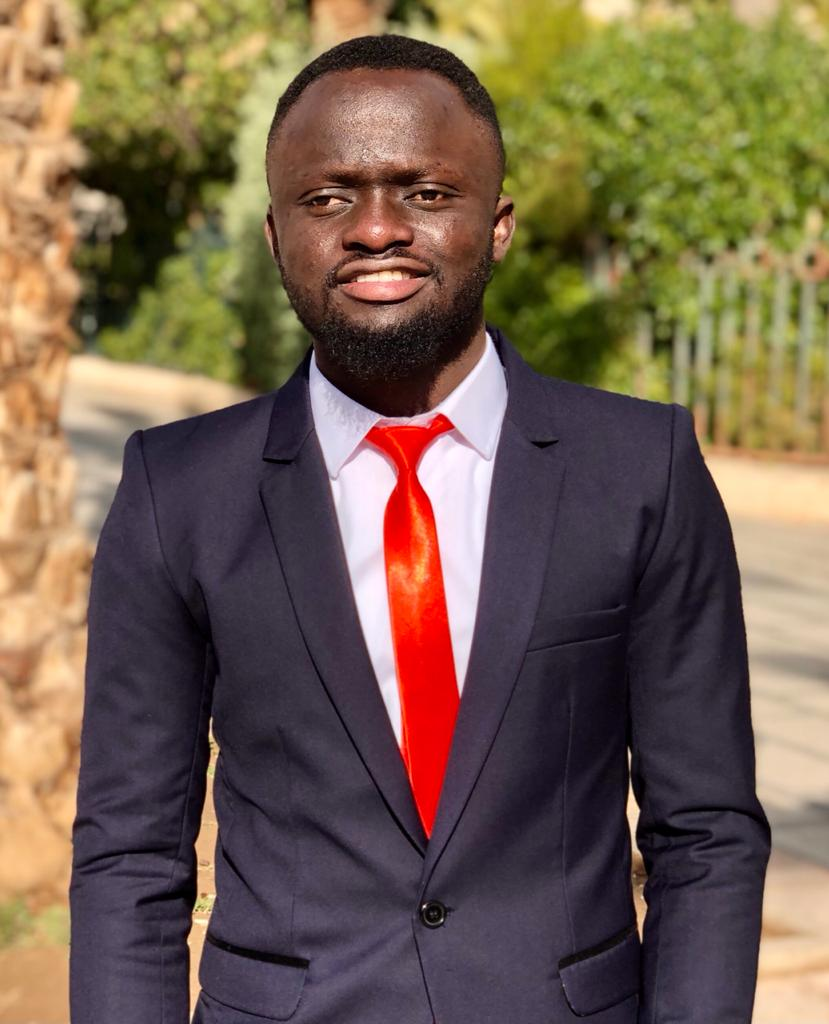
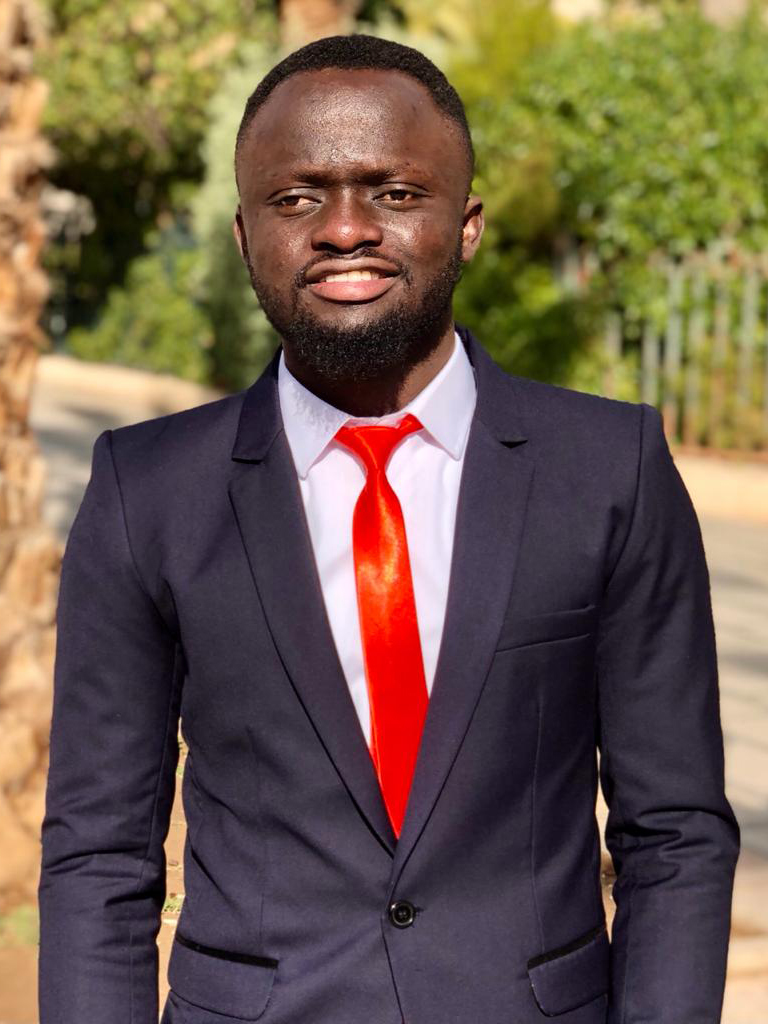
changes

diff --git a/assets/css/style.css b/assets/css/style.css
@@ -1836,7 +1836,7 @@ textarea {
   height: 100% !important;
 }
 
-@media screen and (max-width: 768px) {
+@media screen and (max-width: 991px) {
   .ghasam-admins .tab-content .grid {
     -ms-grid-columns: 1fr;
         grid-template-columns: 1fr;
@@ -1860,7 +1860,13 @@ textarea {
   padding: 2rem 1rem;
   -ms-flex-line-pack: center;
       align-content: center;
-  height: 55%;
+  height: 53%;
+}
+
+@media screen and (max-width: 991px) {
+  .ghasam-admins .tab-content .profile__info {
+    height: 40%;
+  }
 }
 
 .ghasam-admins .tab-content .profile__info p,
@@ -1869,11 +1875,17 @@ textarea {
 }
 
 .ghasam-admins .tab-content .profile__img {
-  height: 40%;
+  height: 47%;
   -webkit-transform: scale(1);
           transform: scale(1);
   -webkit-transition: all 0.4s cubic-bezier(0.075, 0.82, 0.165, 1);
   transition: all 0.4s cubic-bezier(0.075, 0.82, 0.165, 1);
+}
+
+@media screen and (max-width: 991px) {
+  .ghasam-admins .tab-content .profile__img {
+    height: 60%;
+  }
 }
 
 .ghasam-admins .tab-content .profile__img:hover {

diff --git a/fsimaroc.css b/fsimaroc.css
@@ -207,7 +207,7 @@ p,
 
 /* Hero Section */
 #hero {
-	background-image: url("img/aga.jpg");
+	background-image: url("./assets/img/foreign.jpeg") !important;
 	background-size: cover;
 	background-position: center center;
 	background-repeat: no-repeat;
@@ -226,9 +226,9 @@ p,
 	background: linear-gradient(
 		to right,
 		rgba(14, 57, 75, 0.9) 20%,
-		rgba(3, 15, 39, 0) 100%
+		rgba(3, 15, 39, 0.2) 100%
 	);
-	opacity: 0.7;
+	opacity: 0.9;
 	z-index: -1;
 }
 /* #hero .hero {

diff --git a/about_ghana.html b/about_ghana.html
@@ -237,7 +237,7 @@
 					</div>
 					<div class="col-xl-5 col-lg ghana-map">
 							
-									<img class="img1 h-100" src="photos/map-Ghana.jpeg" alt="Map of Ghana" />
+									<img class="img1 h-100" src="photos/map-Ghana.png" alt="Map of Ghana" />
 									<h2 class="text-center text-muted fst-italic fs-6 w-100">
 										Political Map of the Republic of Ghana
 									</h2>

diff --git a/about_ghana.css b/about_ghana.css
@@ -202,9 +202,9 @@ p {
 
 /* Hero Section */
 #hero {
-	background-image: url(./photos/ghana2.jpg);
+	background-image: url("./assets/img/about-gh.jpeg");
 	background-size: cover;
-	background-position: top center;
+	background-position: center center;
 	position: relative;
 	/* z-index: -1; */
 	z-index: 10;
